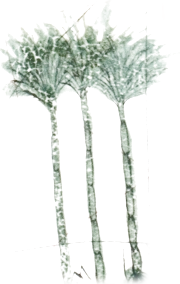
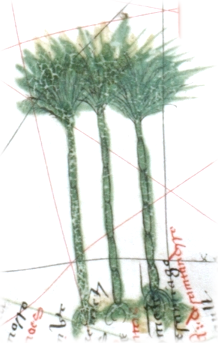
feat(packs): the Aguiar chart's rose and palms as patches, edges feathered (#111)

diff --git a/docs/aguiar-chart/README.md b/docs/aguiar-chart/README.md
@@ -1,0 +1,39 @@
+# The Aguiar 1492 chart's rose and palms as patches (#111)
+
+`rose-aguiar-b` and `palms-aguiar` of the `scanned` pack, re-keyed from ink levels to patches. The scan is
+[Jorge_Aguiar_1492_MR.jpg](https://upload.wikimedia.org/wikipedia/commons/2/21/Jorge_Aguiar_1492_MR.jpg)
+(Jorge de Aguiar, 1492, Beinecke Library, Yale; public domain), the whole coloured chart. Its paper, `#d3cfbb`
+(`AGUIAR_CHART_PAPER`, the mean of the 80th to 90th percentile of the rose's pixels by brightness), is one constant,
+shared by the town sprites of this scan when they are re-cut. This README takes a row per sprite; the towns' rows come
+with their own PR.
+
+![raw crop beside the sprite, one row per sprite, both multiplied onto parchment at twice map size](steps.png)
+
+`steps.png`: the raw crop on the left, the sprite on the right, both multiplied onto parchment at twice the width the
+map draws them. `<id>.raw.png`, `.key.png` and `.cut.png` are the images behind it.
+
+| Sprite | Crop (scan px) | Edge | Dropped fields |
+|---|---|---|---|
+| `rose-aguiar-b` | (4158,2444)-(4502,2788), 20 px wider each side than before: the old crop met the outer ring | circle, radius 160 about the crop centre, feathered 2 px (`circleFeather`) | `dark`, `level`, eight `clean` boxes |
+| `palms-aguiar` | (2520,2945)-(2740,3290): the old crop stopped 40 px short of the roots | polygon at the top right only, feathered 2 px | `level`, two `erase` boxes |
+
+`figure` holds the old box on both, so each keeps its `sizePx` and anchor with the extra surroundings round it.
+
+## `rose-aguiar-b`
+
+Visual pass: the star, the three rings, the vellum between the rhumbs, the red, green and blue washes and the wind
+names (`ocsti`, `leste` and the rest) all survive, as drawn. Absent from the sprite, and why:
+
+- the river and coast beyond the ring, and the rhumb lines running off: surround, outside the circle.
+- a fleck of the river at the east rhumb tip: the tip meets the river, so the circle (radius 160, past the 157 px tip)
+  takes a little of it; trimming it would cut the tip.
+
+## `palms-aguiar`
+
+The old `erase` boxes were one on a neighbouring figure and one on lettering. Lettering now stays as drawn.
+Visual pass: the three palms, the ground at their roots, the rhumb lines and the coast lettering at the foot all
+survive. Absent from the sprite, and why:
+
+- the red bars of the figure above right: a neighbouring figure, not the palms, cut by the polygon, whose edge sits
+  just outside the fronds.
+- the coast and its lettering below y 3290: outside the crop; the ground under the trees is whole.
